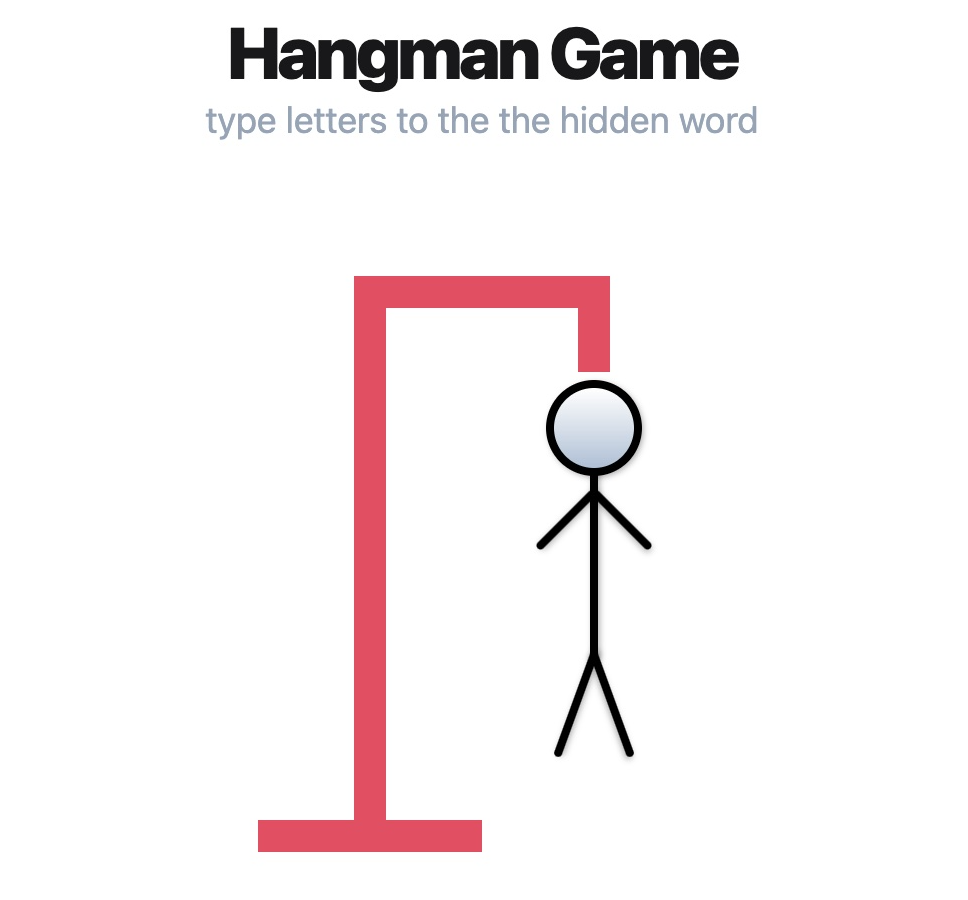
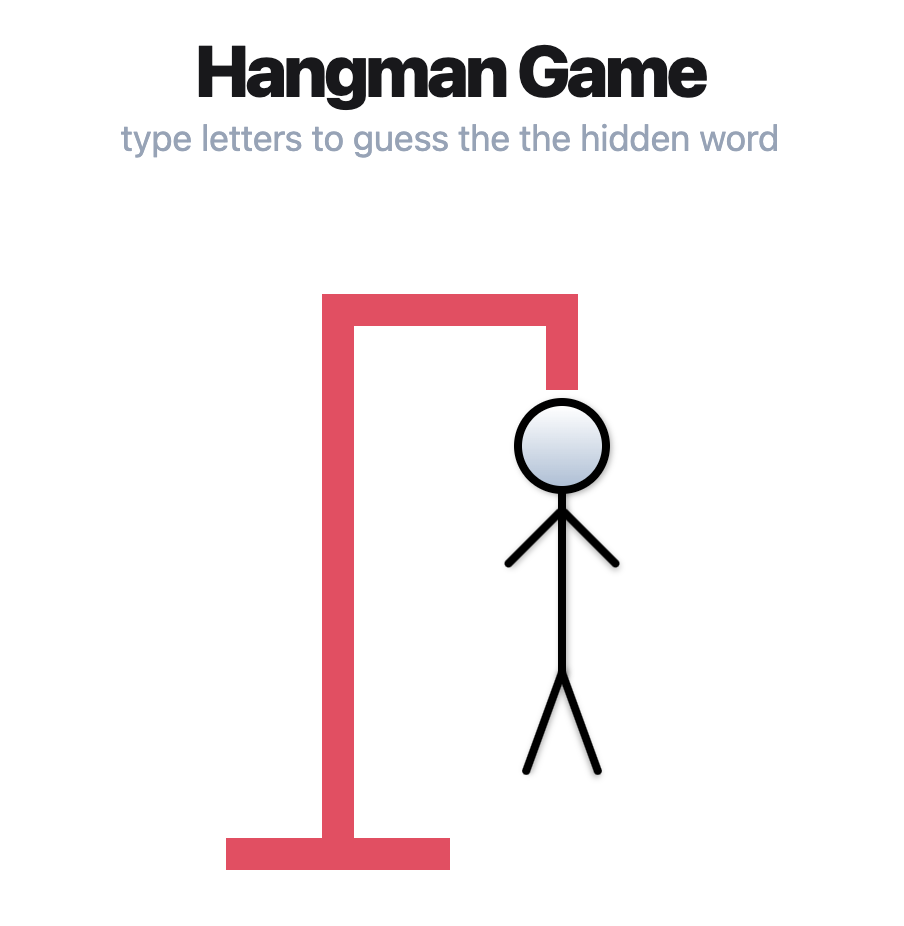
corrects subtitle error and updates readme

Changed region(s): [[0.2478, 0.28, 0.6814, 0.9644], [0.1239, 0.0311, 0.8673, 0.1867]]

diff --git a/index.html b/index.html
@@ -12,7 +12,7 @@
   <div id="wrapper" class="bg-neural-100 text-center h-screen">
     <div id="title-container" class="mt-8">
       <h1 id="title" class="text-zinc-900 font-extrabold text-4xl tracking-tighter">Hangman Game</h1>
-      <h2 id="subtitle" class="text-slate-400 text-lg">type letters to the the hidden word</h2>
+      <h2 id="subtitle" class="text-slate-400 text-lg">type letters to guess the the hidden word</h2>
     </div>
     <div id="figure-container" class="flex justify-center mt-28">
       <div id="gallows" class="relative bottom-24">
